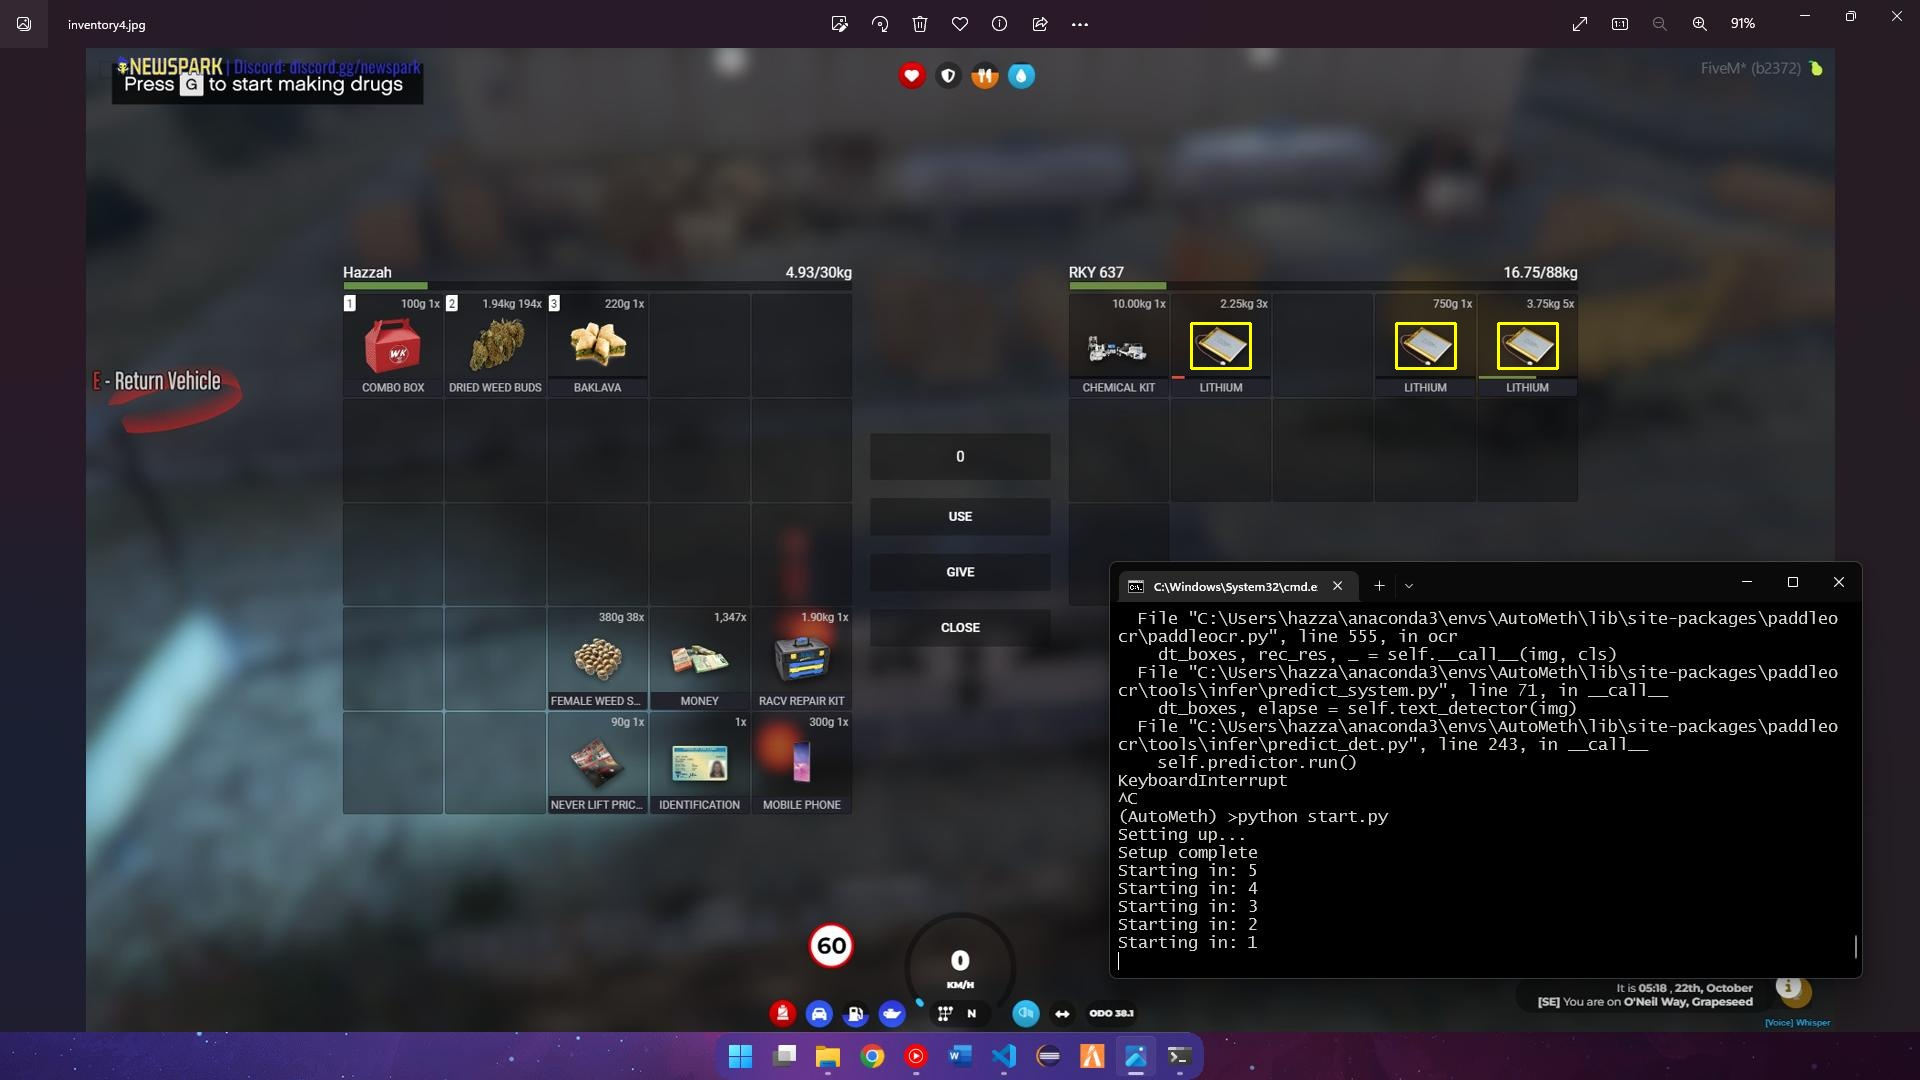
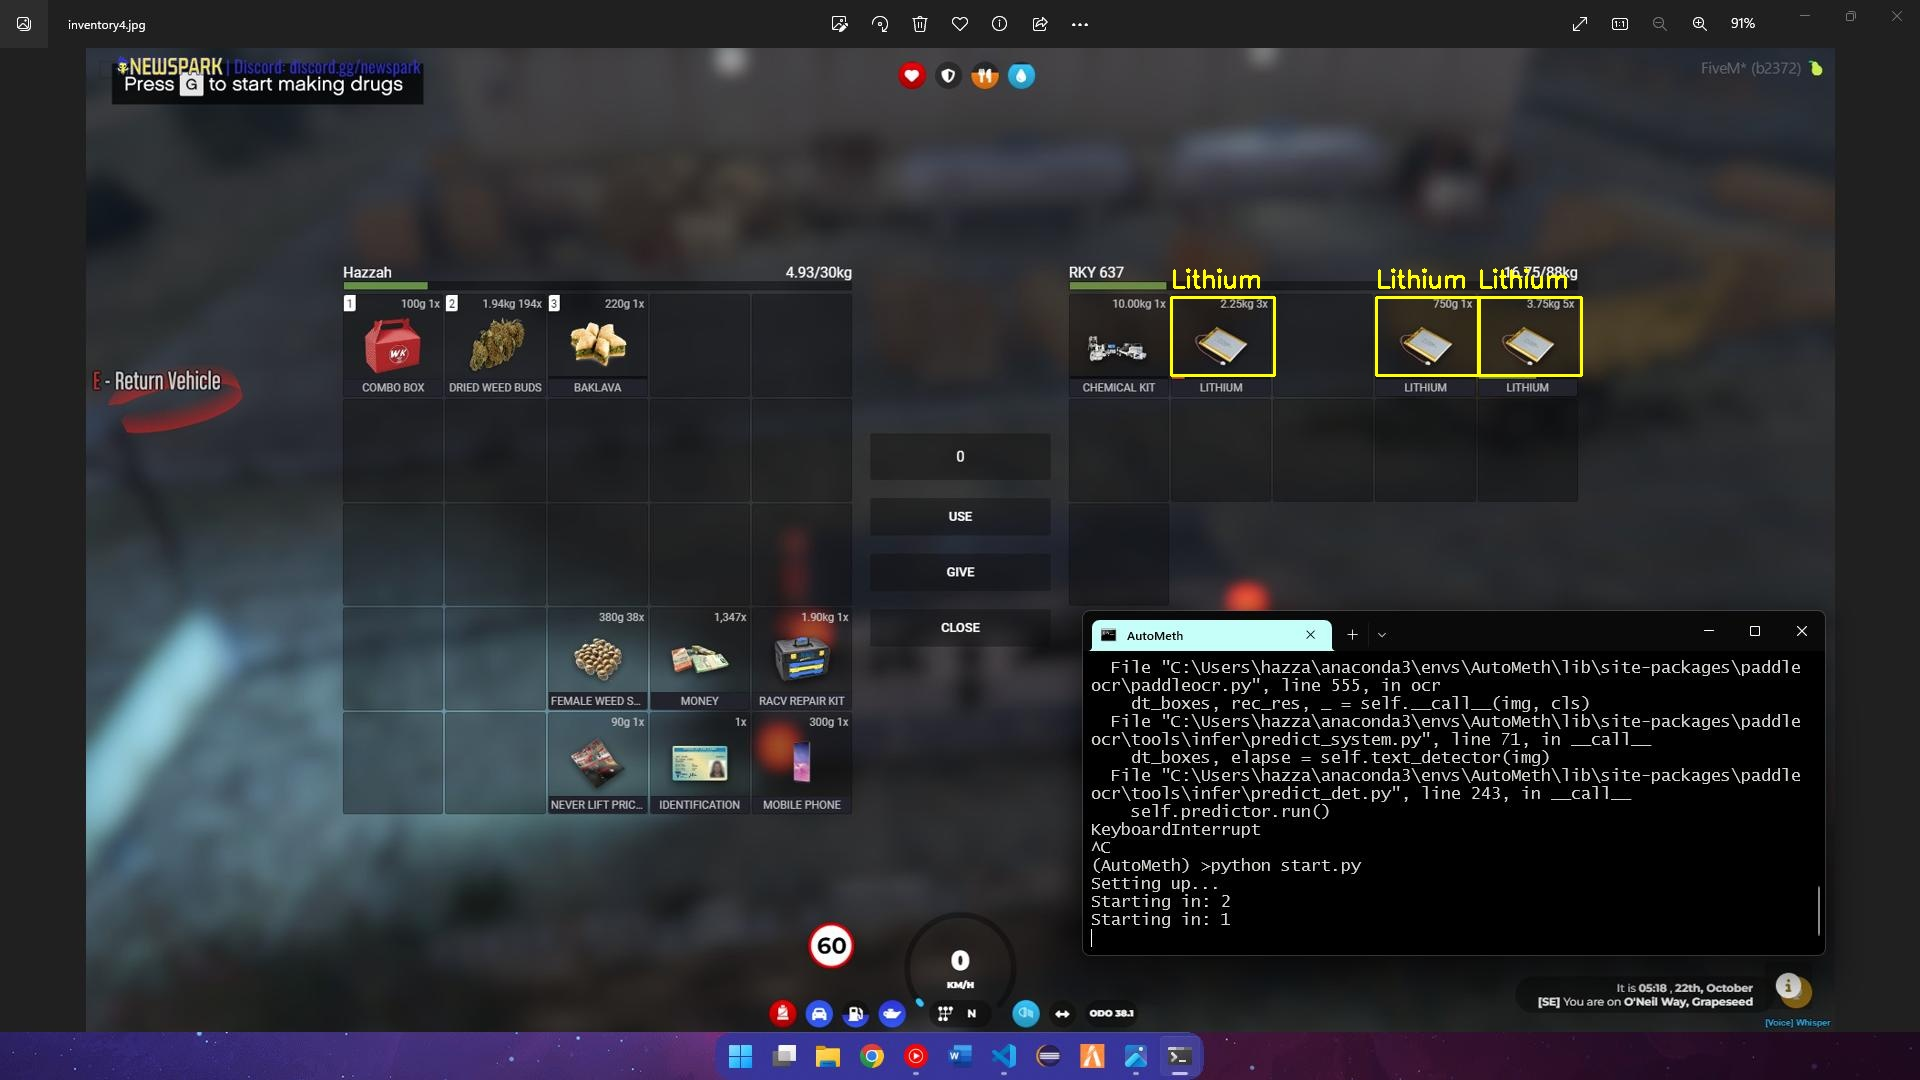
Implementation of counting items

diff --git a/NSRPAutoMeth/main.py b/NSRPAutoMeth/main.py
@@ -10,8 +10,9 @@ import logging
 from pyautogui import getAllTitles
 from os.path import exists
 from warnings import filterwarnings
+import cv2
 if __name__ != "__main__":
-    from NSRPAutoMeth.constants import QUESTION_ANSWERS, LITHIUM_IMG
+    from NSRPAutoMeth.constants import QUESTION_ANSWERS, LITHIUM_IMG, METH_IMG, ACETONE_IMG
     from NSRPAutoMeth.game_controller import GameController
     from NSRPAutoMeth.inventory_controller import find_matches, draw_rectangles
     
@@ -39,6 +40,9 @@ class NSRPAutoMeth:
     __consecutiveFailedTicks = 0
     __cooking = False
 
+    def __imageToText(self, imgPath: str) -> str:
+        return " ".join(re.findall(r"'(.*?)'", str(self.__ocr.ocr(imgPath, cls=True))))
+
     def __getText(self) -> str:
         
         """Finds text within left half of screen
@@ -60,7 +64,7 @@ class NSRPAutoMeth:
             img = ImageGrab.grab(bbox=(0, self.resolution_y/5, self.resolution_x / 3, self.resolution_y))
         # save image
         img.save(imgPath)
-        return " ".join(re.findall(r"'(.*?)'", str(self.__ocr.ocr(imgPath, cls=True))))
+        return self.__imageToText(imgPath)
 
     def __getProductionPercent(self, text: str) -> str:
         """Returns production time of found in given text 
@@ -118,15 +122,69 @@ class NSRPAutoMeth:
         press(number)*3
         logging.info(f'Answered Question: "{question}"')
 
+    def __count_items(self, imgPath: str, template):
+        """Counts the number of items a given template has in image"""
+        lithium_rectangles = find_matches(imgPath, template)
+        tempImgPath = "last-temp.jpg"
+        count = 0
+        img = cv2.imread(imgPath)
+        for (x, y, w, h) in lithium_rectangles:
+            tempRectImg = img[y:y+h, x:x+w]
+            # make white color more visible
+            tempRectImg = cv2.cvtColor(tempRectImg, cv2.COLOR_BGR2GRAY)
+            tempRectImg = cv2.cvtColor(tempRectImg, cv2.COLOR_GRAY2BGR)
+            tempRectImg = cv2.resize(tempRectImg, (tempRectImg.shape[1] * 2, tempRectImg.shape[0] * 2), interpolation=cv2.INTER_CUBIC)
+            cv2.imwrite(tempImgPath, tempRectImg)
+            tempText = self.__imageToText(tempImgPath)
+            # get number after g and before x
+            tempText = re.search(r"(?<=g)\d+(?=x)", tempText)
+            if tempText is None:
+                logging.warning("Failed to find count")
+                continue
+            count += int(tempText.group(0))
+        return count
+
     def __check_supplies(self) -> None:
         """Checks for low supplies and refills if necessary. 
         This includes food, water, lithium, acetone, and meth"""
         logging.info("Checking supplies")
-        img = ImageGrab.grab()
         imgPath = "last-inventory-ss.jpg"
+        leftImgPath = "left-half.jpg"
+        img = ImageGrab.grab()
         img.save(imgPath)
-        rectangles = find_matches(imgPath, LITHIUM_IMG)
-        draw_rectangles(imgPath, rectangles)
+        # leftImg = img.crop((img.width / 2, 0, img.width, img.height)) # right side for debug
+        leftImg = img.crop((0, 0, img.width / 2, img.height)) # left side
+        leftImg.save(leftImgPath)
+
+        # move meth in player inventory to glove box
+        meth_rectangles = find_matches(leftImgPath, METH_IMG)
+        self.game_controller.holdInventoryQuickMove()
+        sleep(0.1)
+        if len(meth_rectangles) == 0:
+            logging.info("No meth found in inventory")
+        if len(meth_rectangles) > 0:
+            logging.info(f"Moved x{len(meth_rectangles)} meth to glove box")
+            for rectangle in meth_rectangles:
+                self.game_controller.click(rectangle[0], rectangle[1])
+                sleep(0.1)
+        self.game_controller.releaseInventoryQuickMove()
+
+        # count all lithium and acetone in inventory
+        lithium_count = self.__count_items(leftImgPath, LITHIUM_IMG)
+        acetone_count = self.__count_items(leftImgPath, ACETONE_IMG)
+        logging.debug(f"Lithium Count: {lithium_count}")
+        logging.debug(f"Acetone Count: {acetone_count}")
+
+        # check if supplies are low
+        if lithium_count < 2:
+            logging.info("Lithium low, refilling")
+        if acetone_count < 5:
+            logging.info("Acetone low, refilling")
+
+        # draw rectangles
+        lithium_rectangles = find_matches(imgPath, LITHIUM_IMG)
+        draw_rectangles(imgPath, lithium_rectangles, "Lithium")
+            
 
 
     def __check_for_information(self, text) -> bool:
@@ -207,7 +265,6 @@ class NSRPAutoMeth:
         """ 
             Starts the bot 
         """
-        print("Setting up...")
         self.__ocr = PaddleOCR(use_angle_cls=True, lang='en', show_log=False)
         self.__setup()
         # check if game window is open

diff --git a/NSRPAutoMeth/game_controller.py b/NSRPAutoMeth/game_controller.py
@@ -33,6 +33,7 @@ class GameController:
         self.lock_unlock_key = parser.get('Keys', 'lock_unlock_door')
         self.open_close_glovebox = parser.get('Keys', 'inventory')
         self.open_close_inventory = parser.get('Keys', 'glovebox')
+        self.inventory_quick_move = parser.get('Keys', 'inventory_quick_move')
 
     def __pressKey(self, key: str):
         """ Presses key. """
@@ -64,6 +65,20 @@ class GameController:
     def moveBackToFront(self):
         """ Moves back to front of vehicle. """
         self.enterExitVehicle()
+        self.lockUnlockVehicle()
         time.sleep(1)
         self.enterExitVehicle()
         time.sleep(1)
+        self.lockUnlockVehicle()
+
+    def holdInventoryQuickMove(self):
+        """ Holds inventory quick move key. """
+        pydirectinput.keyDown(self.inventory_quick_move)
+
+    def releaseInventoryQuickMove(self):
+        """ Releases inventory quick move key. """
+        pydirectinput.keyUp(self.inventory_quick_move)
+
+    def click(self, x, y):
+        """ Clicks at given coordinates. """
+        pydirectinput.click(x, y)

diff --git a/NSRPAutoMeth/inventory_controller.py b/NSRPAutoMeth/inventory_controller.py
@@ -14,13 +14,18 @@ def find_matches(imgPath: str, template: np.ndarray) -> list:
         rectangles.append([int(x), int(y), int(template.shape[1]), int(template.shape[0])])
         logging.debug(f"Found match at: {x}, {y}")
     rectangles, weights = cv2.groupRectangles(rectangles, 1, 0.2)
-    return rectangles
+    # enlarge rectangles
+    new_rectangles = []
+    for (x, y, w, h) in rectangles:
+        new_rectangles.append([int(x - w/3), int(y - h/1.75), int(w * 1.75), int(h * 1.75)])
+    return new_rectangles
 
-def draw_rectangles(imgPath, rectangles):
+def draw_rectangles(imgPath: str, rectangles, name = "item", color = (0,255,255)):
     """Draws rectangles on image"""
     logging.debug(f"Drawing rectangles on image: {imgPath}")
     img = cv2.imread(imgPath, cv2.IMREAD_UNCHANGED)
     for (x, y, w, h) in rectangles:
-        cv2.rectangle(img, (x, y), (x + w, y + h), (0,255,255), 2)
+        cv2.putText(img, name, (x, y - 10), cv2.FONT_HERSHEY_SIMPLEX, 0.8, color, 2)
+        cv2.rectangle(img, (x, y), (x + w, y + h), color, 2)
     cv2.imwrite(imgPath, img)
     return img

diff --git a/NSRPAutoMeth/__init__.py b/NSRPAutoMeth/__init__.py
@@ -1,5 +1,5 @@
 from NSRPAutoMeth.main import NSRPAutoMeth
-from NSRPAutoMeth.constants import QUESTION_ANSWERS, LITHIUM_IMG
+from NSRPAutoMeth.constants import QUESTION_ANSWERS, LITHIUM_IMG, ACETONE_IMG, METH_IMG
 from NSRPAutoMeth.game_controller import GameController
 from NSRPAutoMeth.inventory_controller import find_matches, draw_rectangles
 
@@ -11,4 +11,6 @@ __all__ = [
     "find_matches",
     "draw_rectangles",
     "LITHIUM_IMG"
+    "ACETONE_IMG"
+    "METH_IMG"
     ]

diff --git a/NSRPAutoMeth/constants.py b/NSRPAutoMeth/constants.py
@@ -28,3 +28,5 @@ CHEMICAL_KIT = 10
 
 # images for image matching
 LITHIUM_IMG = cv2.imread('images/data/lithium.jpg', cv2.IMREAD_UNCHANGED)
+ACETONE_IMG = cv2.imread('images/data/lithium.jpg', cv2.IMREAD_UNCHANGED)
+METH_IMG = cv2.imread('images/data/lithium.jpg', cv2.IMREAD_UNCHANGED)

diff --git a/start.py b/start.py
@@ -1,4 +1,5 @@
 if __name__ == "__main__":
+    print("Setting up...")
     import NSRPAutoMeth
     bot = NSRPAutoMeth.NSRPAutoMeth()
     bot.start()
